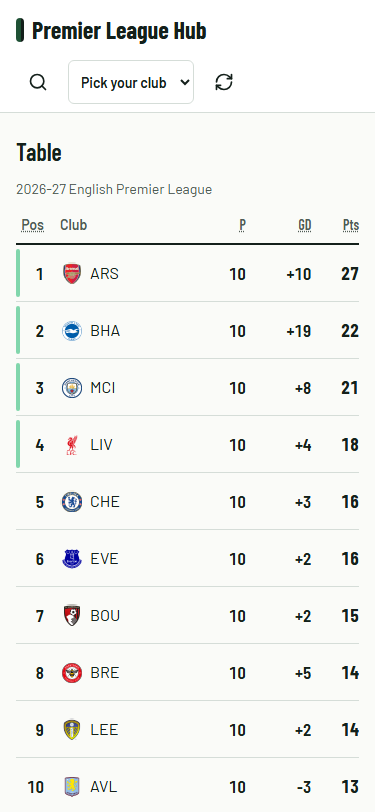
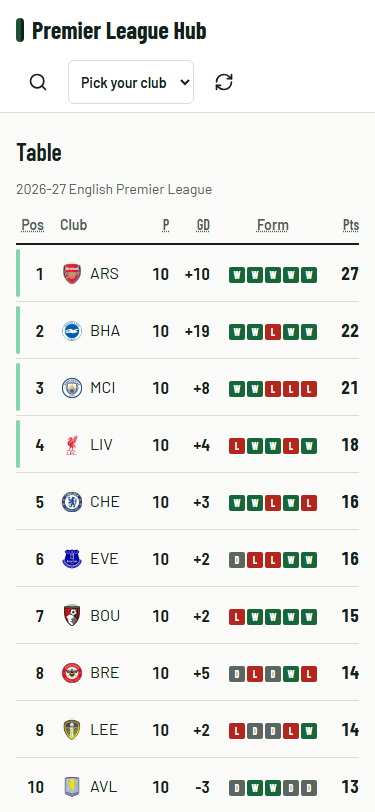
Dashboard layout, ties kept in the leaders fixture, screenshots and docs for Phase 7

diff --git a/tests/e2e/screenshots.spec.js b/tests/e2e/screenshots.spec.js
@@ -18,7 +18,10 @@ test.beforeEach(async ({ page }) => {
 const settle = async (page) => {
   await page.waitForLoadState("networkidle");
   await page.evaluate(() => document.fonts.ready);
-  await page.waitForFunction(() => [...document.images].every((i) => i.complete));
+  // Lazy images below the fold never load, so wait only for those in view.
+  await page.waitForFunction(() =>
+    [...document.images].filter((i) => i.getBoundingClientRect().top < innerHeight).every((i) => i.complete),
+  );
   const broken = await page.evaluate(() =>
     [...document.images]
       .filter((i) => i.getBoundingClientRect().top < innerHeight && !i.naturalWidth)
@@ -34,6 +37,8 @@ test("desktop pages", async ({ page }, info) => {
   await settle(page);
   await page.screenshot({ path: `${OUT}/home.png` });
   await page.locator("section[aria-labelledby=transfers-heading]").screenshot({ path: `${OUT}/transfers.png` });
+  await page.locator("section[aria-labelledby=fixtures-heading]").screenshot({ path: `${OUT}/gameweek.png` });
+  await page.locator("section[aria-labelledby=leaders-heading]").screenshot({ path: `${OUT}/leaders.png` });
 
   await page.goto(`./#/club/${RECORDED.club}`);
   const note = page.getByRole("link", { name: /Reported injured/ });

diff --git a/src/components/Home.jsx b/src/components/Home.jsx
@@ -120,10 +120,8 @@ export default function Home({ myClub }) {
         )}
       </div>
 
-      <div className="grid gap-10 lg:grid-cols-2">
-        <KeyFixturesSection league={league} standings={standings} />
-        <LeadersSection league={league} />
-      </div>
+      <LeadersSection league={league} />
+      <KeyFixturesSection league={league} standings={standings} />
 
       <Section id="news-heading" title="Top stories" state={news} empty="No stories in the last week.">
         {() =>

diff --git a/src/components/league.jsx b/src/components/league.jsx
@@ -225,7 +225,7 @@ function LeaderTable({ title, unit, list }) {
                     </span>
                   </td>
                   <td className="num px-1 py-1.5 text-right text-lg font-bold">{p.value}</td>
-                  <td className="num py-1.5 pl-1 text-right text-muted">{p.matches ?? "–"}</td>
+                  <td className="num py-1.5 pr-1 pl-1 text-right text-muted">{p.matches ?? "–"}</td>
                 </tr>
               );
             })}

diff --git a/README.md b/README.md
@@ -12,23 +12,28 @@ Live: **https://mushahidur.gitlab.io/premier-league-hub/** · Source: [GitLab](h
 Taken by Playwright from the production build (`npm run screenshots`) with the recorded e2e fixtures. Club crests are
 live from ESPN's CDN. The injury story in the squad shot is the made-up fixture story the e2e tests use for rule 3.
 
-| League home (desktop)                            | League home (375 px)                                            |
-| ------------------------------------------------ | --------------------------------------------------------------- |
-| ![League home](docs/screenshots/home.png)        | ![League home on a phone](docs/screenshots/home-mobile.png)     |
-| **Club page**                                    | **Squad: a "reported injured" note from the news**              |
-| ![Club page](docs/screenshots/club.png)          | ![Squad with an injury note](docs/screenshots/squad-injury.png) |
-| **Transfers and contracts (home)**               | **Match centre**                                                |
-| ![Transfer feed](docs/screenshots/transfers.png) | ![Match centre](docs/screenshots/match.png)                     |
+| League home (desktop)                               | League home (375 px)                                            |
+| --------------------------------------------------- | --------------------------------------------------------------- |
+| ![League home](docs/screenshots/home.png)           | ![League home on a phone](docs/screenshots/home-mobile.png)     |
+| **Club page**                                       | **Squad: a "reported injured" note from the news**              |
+| ![Club page](docs/screenshots/club.png)             | ![Squad with an injury note](docs/screenshots/squad-injury.png) |
+| **Transfers and contracts (home)**                  | **Match centre**                                                |
+| ![Transfer feed](docs/screenshots/transfers.png)    | ![Match centre](docs/screenshots/match.png)                     |
+| **Fixtures by gameweek, with filters**              | **Top scorers and assists**                                     |
+| ![Gameweek fixtures](docs/screenshots/gameweek.png) | ![Leaders](docs/screenshots/leaders.png)                        |
 
 ## What's on it
 
-- **League home** (`#/`): table with qualification and relegation zones, the current round of fixtures and results in
-  the viewer's timezone, top stories across the league, transfers and contracts, and a "pick your club" grid.
+- **League home** (`#/`): table with qualification and relegation zones and each club's last five results; fixtures
+  and results by gameweek (any of the 38, live / upcoming / completed filters, times in the viewer's timezone, live
+  scores from ESPN); top scorers and assists; key fixtures (upcoming top-six and bottom-four meetings by the current
+  table); top stories; transfers and contracts; and a "pick your club" grid. Each part says where its data came from
+  and how old it is.
 - **Club pages** (`#/club/<slug>`): next match with countdown, last result, table position, gaps and form, club news
   with outlet credibility, squad with availability, fixtures and results.
 - **Match centre** (`#/match/<event-id>`): score, key events, team stats, line-ups on a formation pitch.
-- **My club**: stored in `localStorage`; the home page leads with it and the UI takes its colour as an accent,
-  darkened until it passes WCAG AA.
+- **My club**: stored in `localStorage`; the home page leads with its position, gaps, form and next or live match,
+  and the UI takes its colour as an accent, darkened until it passes WCAG AA.
 - **Search** (`#/search?q=`) across clubs, players (all 20 squads) and stories.
 
 ## Commands
@@ -63,14 +68,21 @@ schedules and match pages are always refetched. Refresh and the 10-minute auto-r
 
 **From the pipeline:** `scripts/fetch-data.mjs` (Node 22, no dependencies) fetches each club's BBC Sport, Guardian and
 Sky Sports feeds plus three league-wide feeds (57 in all) and the 20 ESPN squads. It parses RSS and Atom,
-de-duplicates, tags each story with clubs and players, and writes two same-origin files:
+de-duplicates, tags each story with clubs and players, and writes three same-origin files:
 
 - `data/news.json`: `{ generatedAt, outlets, items[] }`, each item with `id`, `title`, `link`, `date`, `image`,
   `excerpt`, `author`, `outlet`, `clubs` (slugs), `players` (ESPN ids) and `also` (near-identical copies from other
   feeds). Last 14 days, at most 800 items.
 - `data/meta.json`: `generatedAt`, `durationMs`, `counts` (`feeds`, `feedsOk`, `rawItems`, `items`, `rostersOk`,
   `players`, `itemsWithPlayers`), and per-source status lists `feeds[]` (`club`, `outlet`, `url`, `ok`, `status`,
-  `items`, `error`, `ms`) and `rosters[]` (`club`, `ok`, `players`, `error`).
+  `items`, `error`, `ms`) and `rosters[]` (`club`, `ok`, `players`, `error`), plus a `league` summary.
+- `data/league.json`: gameweeks 1–38 and all 380 fixtures from the official **Fantasy Premier League** data (the only
+  source of gameweek numbers; it has no CORS, so only the pipeline can read it), each club's last five league results
+  derived from FPL's finished fixtures, and the goals and assists leaders from ESPN (top ten plus ties). Each part has
+  its own date in `asOf`. If a source fails, that part is carried over from the live file with its older date
+  (`carriedOver`) or listed in `missing`; it is never guessed, and it never stops the news deploy. The browser asks
+  ESPN's scoreboard for the selected gameweek's days and shows ESPN's live score and match centre for each fixture
+  ESPN lists; the rest are shown from FPL, unlinked.
 
 `meta.json` also carries `status` (`ok` or `degraded`) and `problems`. A failed feed or squad is recorded there
 (error codes only; IP addresses are removed) and the run still deploys. Below a floor (fewer than half the feeds, or
@@ -136,6 +148,9 @@ the real use is lower: 183 budgeted scheduled minutes plus, say, 30 pushes × 2 
   list is described as "ESPN lists no injuries or suspensions. Its list can lag club news."
 - **Transfers** are a simplified feed: "Confirmed" only for completion wording from a reliable outlet with no hedge,
   otherwise "Reported". Manager news, finances, fan pieces, live blogs and newsletters are left out.
+- **Gameweeks are FPL's, labelled as such.** ESPN has no gameweek numbers, so the selector uses Fantasy Premier
+  League's rounds. A postponed match sits in the round FPL moves it to, or under "Awaiting a new date"; no number is
+  ever inferred. "Key fixtures" is a stated rule (top-six or bottom-four meetings by the current table), not an opinion.
 - **Accent colours** are computed (`src/lib/accent.js`): a club's primary colour is darkened until it reaches 4.5:1
   on the page and on its own tint; raw club colours are decoration only. Tested for all 20 clubs.
 - **Crests** come from ESPN's CDN resized by its image combiner (`src/lib/crest.js`): about 4 KB per crest instead of

diff --git a/PLAN.md b/PLAN.md
@@ -292,9 +292,9 @@ Phase 5 decisions:
 
 #### Open issues for later versions
 
-1. **Home table form column.** Needs 20 club schedules in the browser (40 requests). Better: have the pipeline write
+1. ~~**Home table form column.**~~ Done in Phase 7 (from FPL fixtures via the pipeline). Was: needs 20 club schedules in the browser (40 requests). Better: have the pipeline write
    `data/form.json` from the schedules it could fetch alongside the rosters.
-2. **Gameweek labels.** The default scoreboard has no `week`; fixtures are grouped by date.
+2. ~~**Gameweek labels.**~~ Done in Phase 7 (FPL gameweeks). Was: the default scoreboard has no `week`; fixtures are grouped by date.
 3. **Dark theme** (light only in v1).
 4. **Per-route link previews** (club and match OG cards) need prerendered HTML per route, which hash routing can't
    give; would mean moving to path routing with a Pages 404 fallback.
@@ -418,6 +418,48 @@ Phase 6 outcome: done. Next recommended: **Phase 7 (league dashboard)**, startin
 `data/gameweeks.json` and league form from FPL `fixtures/` (see the assessment), then the gameweek selector, top
 scorers and assists from ESPN `statistics`, and the table's form column. Carried forward: `noImplicitAny` (196 errors),
 the deferred majors (Vite 8, React 19, ESLint 10, lucide 1.x), and v1 open issues 1–2 and 4–7.
+
+### Phase 7: league dashboard
+
+- [x] Pipeline `data/league.json` (named for what it holds, not `gameweeks.json` as the assessment guessed): FPL
+      gameweeks and fixtures, league form, ESPN goals and assists leaders; per-part `asOf`, carry-over, validation
+- [x] Functional gameweek selector (all 38, previous/next, opens on the current gameweek until it is finished, then
+      the next) that loads the selected gameweek's fixtures, with ESPN live scores for its days
+- [x] Matchday scoreboard with live / upcoming / completed filters and counts
+- [x] League table with form indicators (all widths, including 375 px)
+- [x] Top scorers and assists
+- [x] Upcoming important fixtures ("Key fixtures", by a stated rule)
+- [x] Improved My Club block (position, points, gaps, form, then next/live and last match)
+- [x] Data freshness: every dashboard part names its source and age; live scores are labelled live
+- [ ] Deploy and live check (below)
+
+Phase 7 decisions:
+
+- **Gameweeks come from FPL** (`scripts/lib/league.mjs`). FPL teams are matched to clubs by FPL short name = our
+  `abbr`, and all 20 must match or no gameweek data is published. A fixture is shown in the round FPL gives it; FPL
+  moves a postponed match to its replay round, and one with no round yet is listed under "Awaiting a new date".
+  Labels say "Fantasy Premier League"; no number is inferred.
+- **Scores:** for the selected gameweek the browser fetches ESPN's scoreboard for each of its days (UTC dates of
+  FPL's kick-offs; one request per day, new `scoreboards:<days>` source) and pairs matches by home and away club.
+  A paired fixture shows ESPN's live score, clock and match-centre link; an unpaired one shows FPL's score or
+  kick-off, without a link, and the section says how many. If ESPN fails, the section says so and shows FPL's data.
+  Filters use the provider's state: a kick-off that has passed without a result is "upcoming", never "completed".
+- **Fallback:** if league.json has no gameweeks (or can't load at all), the home page shows ESPN's default
+  scoreboard as before.
+- **Form** is derived from FPL's finished fixtures (provisional or confirmed full time), last five, oldest first. The
+  club page keeps its ESPN-schedule form (it includes links to the match centre); the two can differ for up to a
+  pipeline interval after a match, and each says where it comes from.
+- **Leaders** are ESPN's (goals and assists, top ten plus everyone tied at the cut, capped at 20). "Apps" shows "–"
+  when ESPN gives no match count; never 0.
+- **Key fixtures:** upcoming in the next 14 days, both clubs in the top six or both in the bottom four of the current
+  ESPN table (needs all 20 rows). The rule is printed above the list.
+- **Freshness:** the dashboard sections drop the generic "Source" line (`Section sourceLine={false}`) for one line
+  per source (`FreshnessLine`): FPL fixture list with its `asOf`, ESPN scores marked live, ESPN leaders, FPL form
+  under the table.
+- **Bug found by the e2e test:** FPL-only rows have no ESPN id, so they shared a React key; when ESPN's scores arrived
+  React kept stale rows (10 matches rendered as 19). Rows are keyed by ESPN id, else FPL id; day groups by day.
+- **Pipeline cost:** two FPL requests (1.8 MB + 0.1 MB) and one ESPN statistics request (0.7 MB) per run; league.json
+  is ~80 KB (about 10 KB gzipped). Main chunk 79 KB gzipped (was 74 KB).
 
 ## Decisions
 
